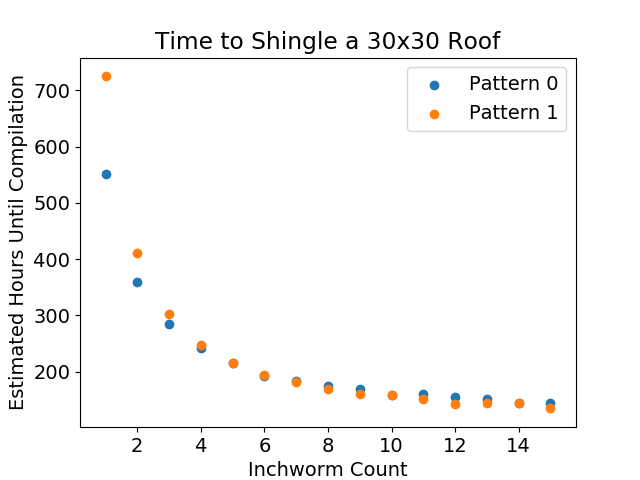
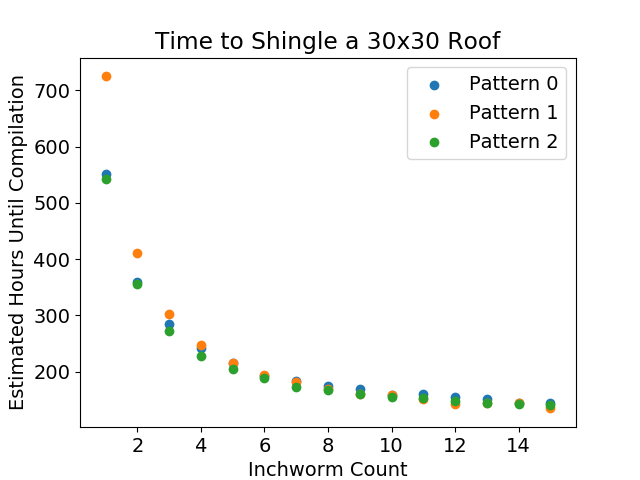
more graphs

diff --git a/inchworm_algo/src/create_graph.py b/inchworm_algo/src/create_graph.py
@@ -7,7 +7,7 @@ import plotly.graph_objects as go
 move_to_days = (16/3600)
 WIDTH = 30
 HEIGHT = 30
-pattern = 0
+pattern = 2
 
 data = []
 with open(f"../data/{sys.argv[1]}") as csvfile:
@@ -96,7 +96,7 @@ plt.title(f"Time to Shingle a {WIDTH}x{HEIGHT} Roof with Pattern {pattern}")
 plt.savefig(f"{WIDTH}x{HEIGHT}_{pattern}.png")
 
 
-data_points = [0, 3, 6]
+data_points = [0, 3, 6, 10, 14]
 fig = go.Figure()
 for i in data_points:
     print(average_data.columns.values.tolist()[1:])
@@ -127,7 +127,7 @@ fig.update_layout(
         size=18
     )
     )
-fig.write_image(f"{WIDTH}x{HEIGHT}_dist.png", width=1000, height=600)
+fig.write_image(f"{WIDTH}x{HEIGHT}_{pattern}_dist.png", width=1000, height=600)
 # plt.savefig(f"{WIDTH}x{HEIGHT}_time01.png")
 fig.show()
 # plt.show()

diff --git a/inchworm_algo/src/create_graph_many_patterns.py b/inchworm_algo/src/create_graph_many_patterns.py
@@ -11,7 +11,7 @@ HEIGHT = 30
 pattern = 0
 
 
-for j in range(2):
+for j in range(3):
     data = []
     with open(f"../data/{sys.argv[1]}{j}.csv") as csvfile:
         reader = csv.reader(csvfile, delimiter=' ')
